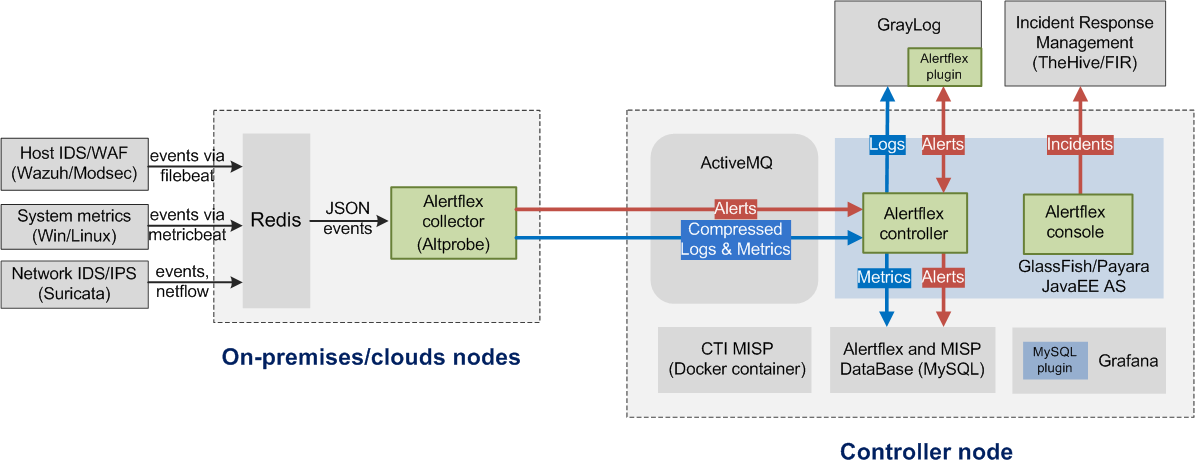
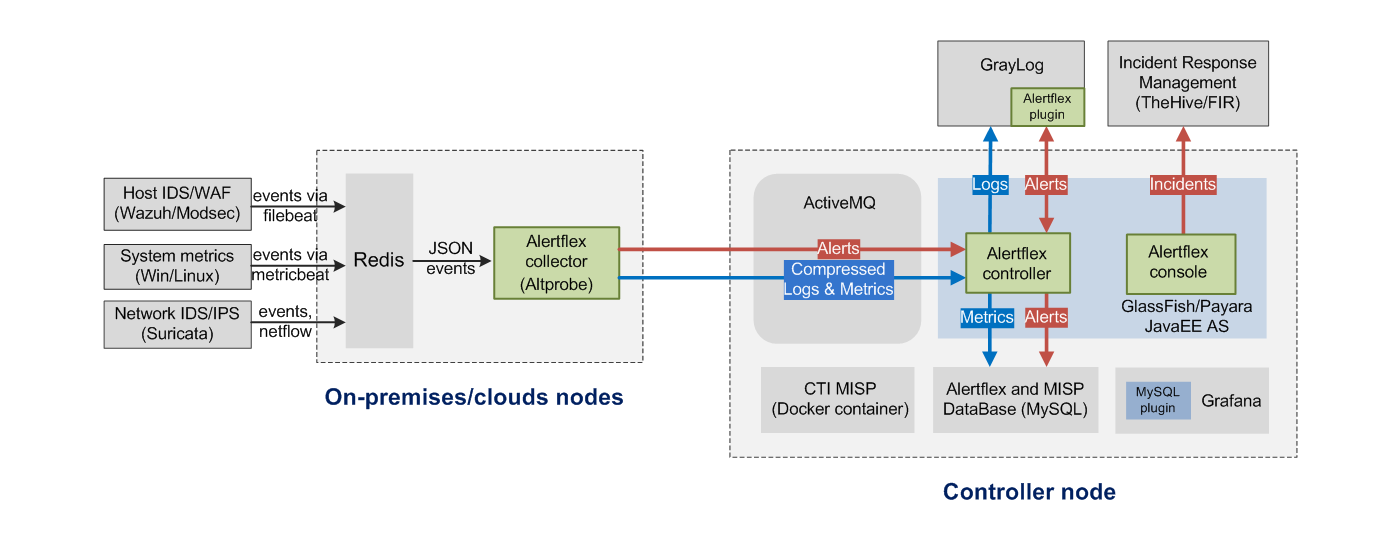
update arch and readme

diff --git a/README.md b/README.md
@@ -3,7 +3,7 @@
 Altprobe is a component of the Alertflex project, it has functional of a collector according to SIEM/Log Management terminologies.
 In tandem with Alertflex controller (see [AlertflexCtrl repository](https://github.com/olegzhr/AlertflexCtrl/blob/master/README.md) ), 
 Altprobe can integrate a Wazuh Host IDS (OSSEC fork) and Suricata Network IDS
-with Log Management platform Graylog and Threat Intelligence Platform MISP. 
+with Log Management platform Graylog, Monitoring platform Grafana and Threat Intelligence Platform MISP. 
 ![](https://github.com/olegzhr/altprobe/blob/master/img/arch.png)
 
 ## Functionalities of Altprobe
